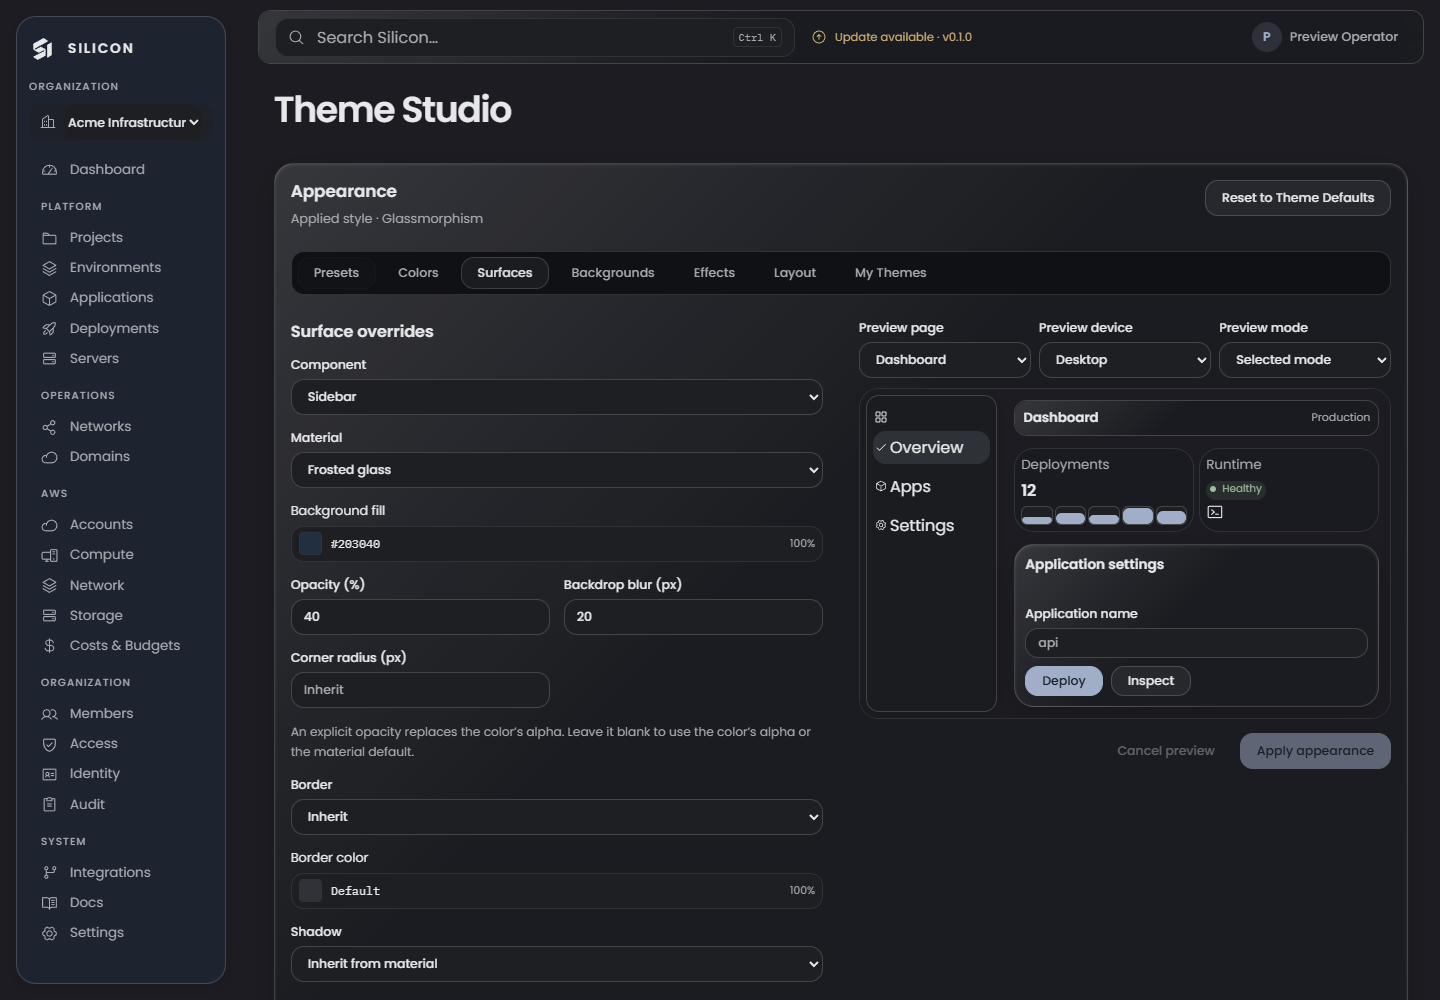
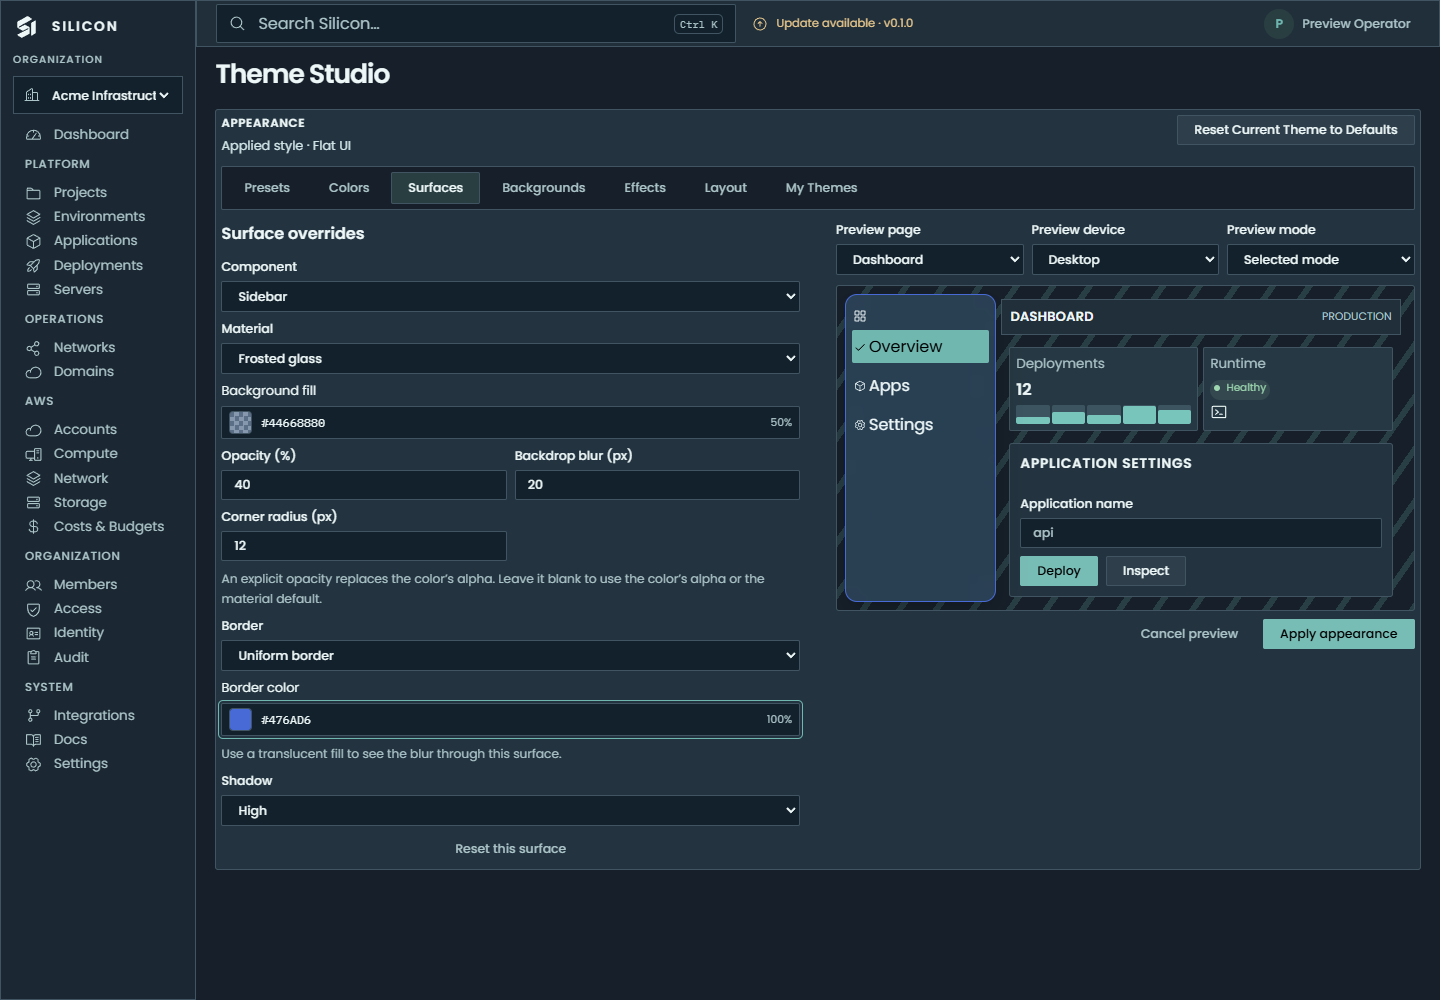
Describe surface preview and border behavior

diff --git a/docs/guides/theme-studio.md b/docs/guides/theme-studio.md
@@ -21,9 +21,9 @@ Open the menu beside your name and select **Theme Studio**. You can also open **
 
 ## Customize a surface
 
-1. Open **Surfaces** and select a component such as **Sidebar**, **Cards**, or **Panels and sections**. Each can have its own fill, material, opacity, blur, border, radius, and shadow. Inputs, buttons, tables, and charts have additional controls.
+1. Open **Surfaces** and select a component such as **Sidebar**, **Cards**, or **Panels and sections**. Each can have its own fill, material, opacity, blur, border, radius, and shadow. Inputs, buttons, tables, and charts have additional controls. Selecting a component opens a preview that contains it. Picking a border color turns the border on.
 2. For a frosted sidebar, choose **Frosted glass**, set **Opacity** to 40%, and set **Backdrop blur** to 20 px. To make application cards lighter, select **Cards**, use the same material, and try 20% opacity and 12 px blur. Set **Inputs** to **Solid** if you want an opaque field.
-3. A surface opacity overrides the alpha in its fill. Leave opacity empty to use the fill’s alpha or the material default. Text and icons stay opaque. A named widget override takes precedence over the shared dashboard widget setting. Use **Reset this surface** to clear the selected override.
+3. A surface opacity overrides the alpha in its fill. Leave opacity empty to use the fill’s alpha or the material default. Text and icons stay opaque. Use a translucent fill to see backdrop blur. A named widget override takes precedence over the shared dashboard widget setting. Use **Reset this surface** to clear the selected override.
 
 ![Independent sidebar material and opacity settings](/img/screenshots/theme-studio-surfaces.png)
 
